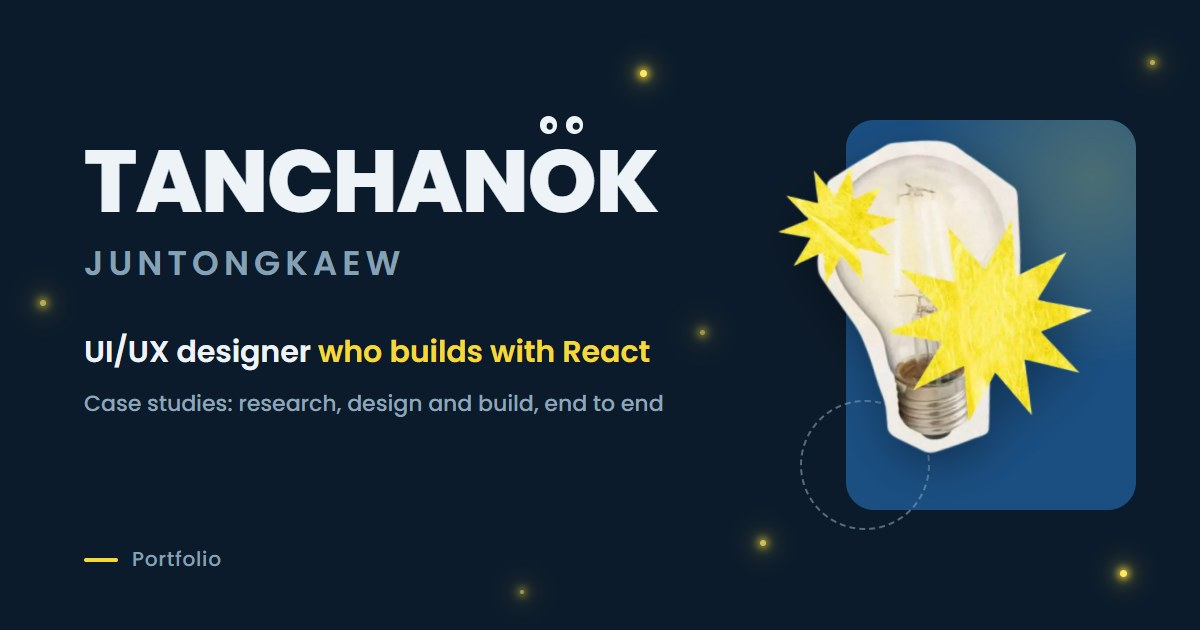
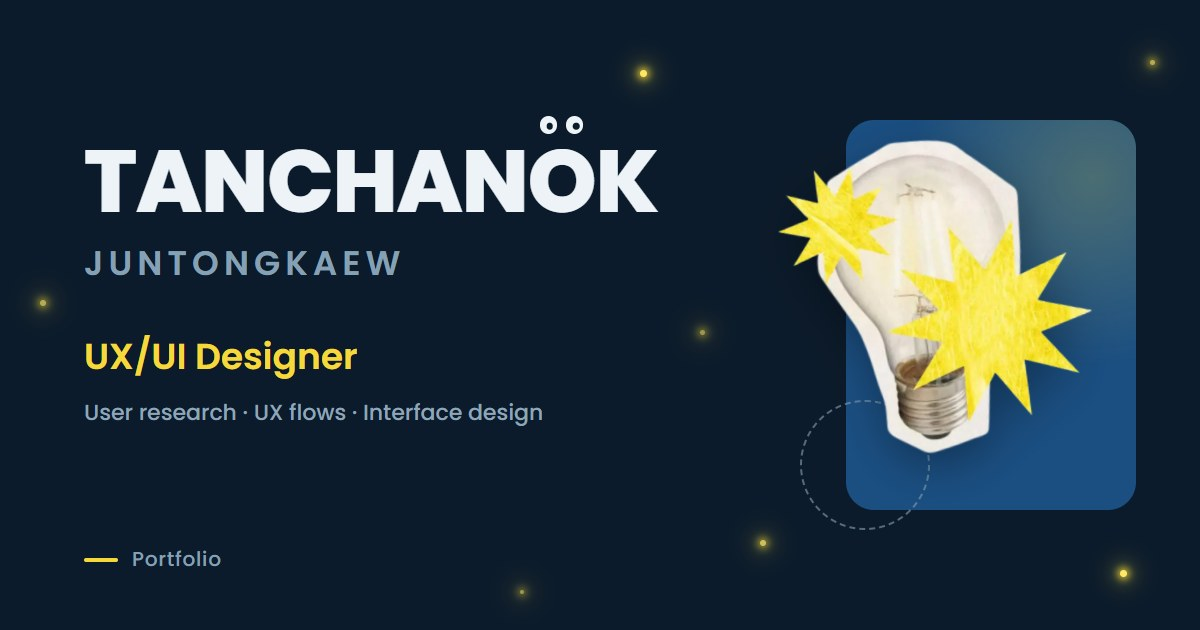
Use a plain UX/UI Designer headline
Drop the 'designer who builds with React' tagline from the hero, page
title, meta and Open Graph descriptions and the link preview image.

Changed region(s): [[0.0617, 0.5127, 0.555, 0.6032], [0.0617, 0.6333, 0.555, 0.6937]]

diff --git a/index.html b/index.html
@@ -3,29 +3,29 @@
   <head>
     <meta charset="utf-8" />
     <meta name="viewport" content="width=device-width, initial-scale=1, viewport-fit=cover" />
-    <title>Tanchanok Juntongkaew — UI/UX Designer</title>
+    <title>Tanchanok Juntongkaew — UX/UI Designer</title>
     <link rel="icon" href="./favicon.svg" type="image/svg+xml" />
     <link rel="icon" href="./favicon-32.png" type="image/png" sizes="32x32" />
     <link rel="apple-touch-icon" href="./apple-touch-icon.png" />
     <meta
       name="description"
-      content="Portfolio of Tanchanok Juntongkaew, a UI/UX designer who builds with React."
+      content="Portfolio of Tanchanok Juntongkaew, UX/UI designer. Case studies in user research, user flows and interface design."
     />
 
     <!-- Link previews (LinkedIn, Line, Facebook, X). Crawlers need absolute URLs:
          update SITE in both URLs below if the deployed address changes. -->
     <meta property="og:type" content="website" />
     <meta property="og:site_name" content="Tanchanok Juntongkaew" />
-    <meta property="og:title" content="Tanchanok Juntongkaew — UI/UX Designer" />
+    <meta property="og:title" content="Tanchanok Juntongkaew — UX/UI Designer" />
     <meta
       property="og:description"
-      content="UI/UX designer who builds with React. Case studies from research and design to a working product."
+      content="UX/UI designer. Case studies in user research, user flows and interface design."
     />
     <meta property="og:url" content="https://tanchanok-portfolio.vercel.app/" />
     <meta property="og:image" content="https://tanchanok-portfolio.vercel.app/og-image.jpg" />
     <meta property="og:image:width" content="1200" />
     <meta property="og:image:height" content="630" />
-    <meta property="og:image:alt" content="Tanchanok Juntongkaew, UI/UX designer who builds with React" />
+    <meta property="og:image:alt" content="Tanchanok Juntongkaew, UX/UI designer" />
     <meta name="twitter:card" content="summary_large_image" />
     <link rel="preconnect" href="https://fonts.googleapis.com" />
     <link rel="preconnect" href="https://fonts.gstatic.com" crossorigin />

diff --git a/src/pages/Home.jsx b/src/pages/Home.jsx
@@ -41,8 +41,8 @@ function Hero() {
             </h1>
           </div>
           <p className="h2-lead">
-            <b>UI/UX designer who builds with React.</b> I research with the people who will use a
-            product, design it in Figma, then build the interface so what ships matches what was tested.
+            <b>UX/UI Designer</b> I design clear, user-centered digital products, from talking with
+            the people who will use them to user flows and polished interfaces.
           </p>
           <div className="btns">
             <a className="btn primary" href="#/work">

diff --git a/src/App.jsx b/src/App.jsx
@@ -84,7 +84,7 @@ export default function App() {
       main.current.querySelector("h1")?.focus({ preventScroll: true });
       return;
     }
-    document.title = "Tanchanok Juntongkaew — UI/UX Designer";
+    document.title = "Tanchanok Juntongkaew — UX/UI Designer";
     const from = lastCase.current;
     lastCase.current = null;
     if (fresh && from && (path === "work" || path === "")) {

diff --git a/CLAUDE.md b/CLAUDE.md
@@ -1,6 +1,8 @@
 # Tanchanok Juntongkaew — Portfolio
 
-Personal portfolio for Tanchanok Juntongkaew, a UI/UX designer who builds with React.
+Personal portfolio for Tanchanok Juntongkaew, a UX/UI designer. Never use the tagline
+"designer who builds with React" (she rejected it as unprofessional); describe her plainly as a
+UX/UI designer.
 Audience: recruiters and hiring managers for UX/UI design roles (she is not looking for frontend roles). They skim, so the
 home page must show who she is, her strongest work, and how to contact her within seconds.
 
